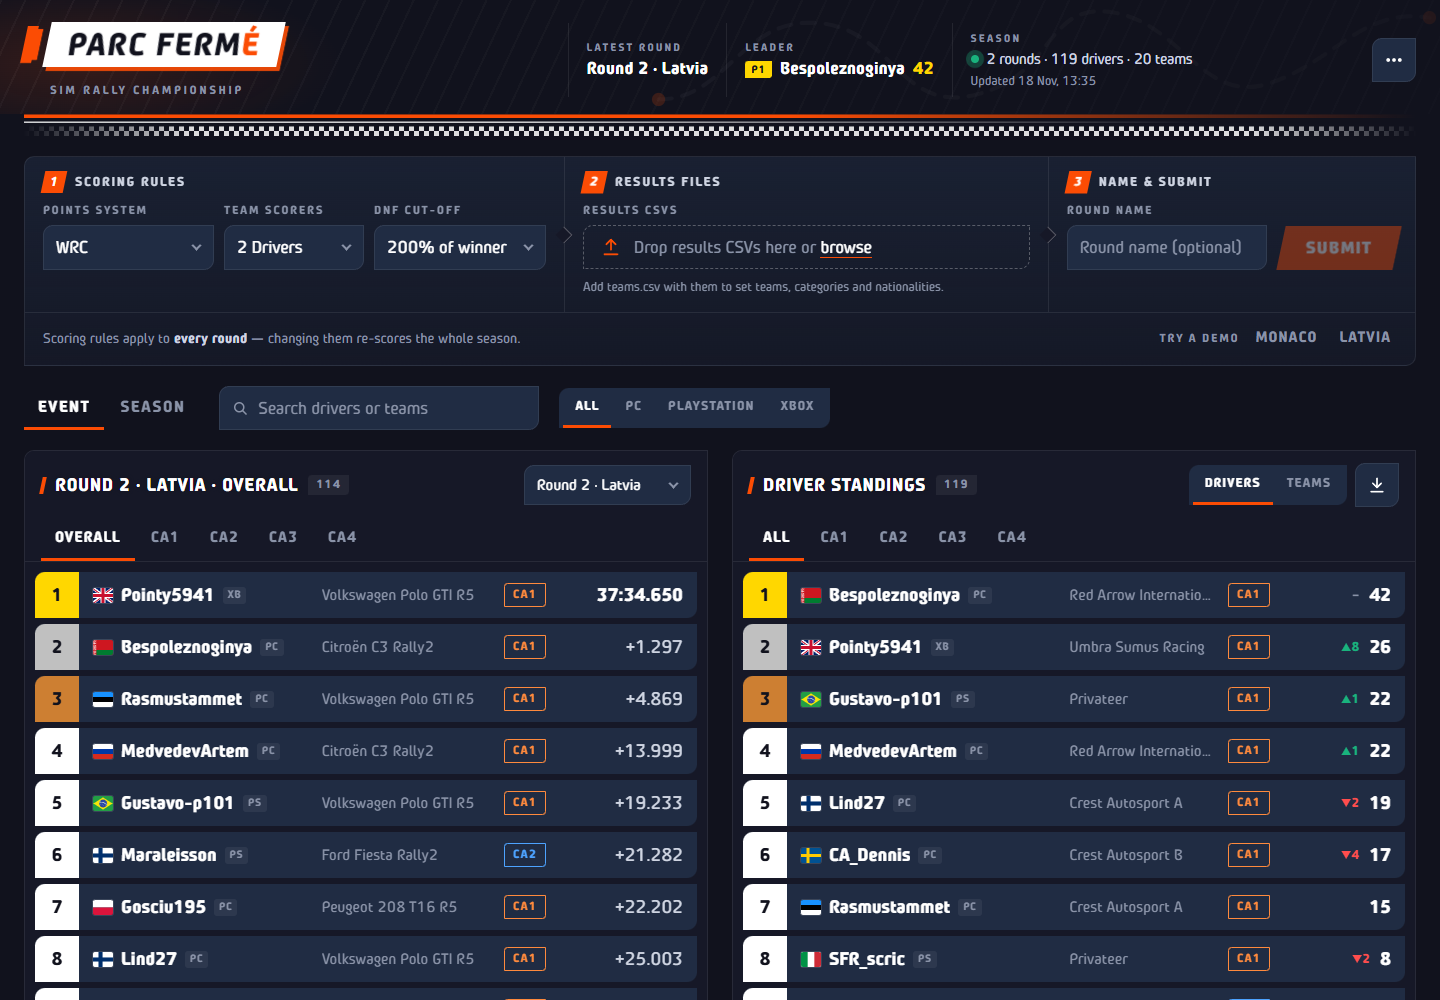
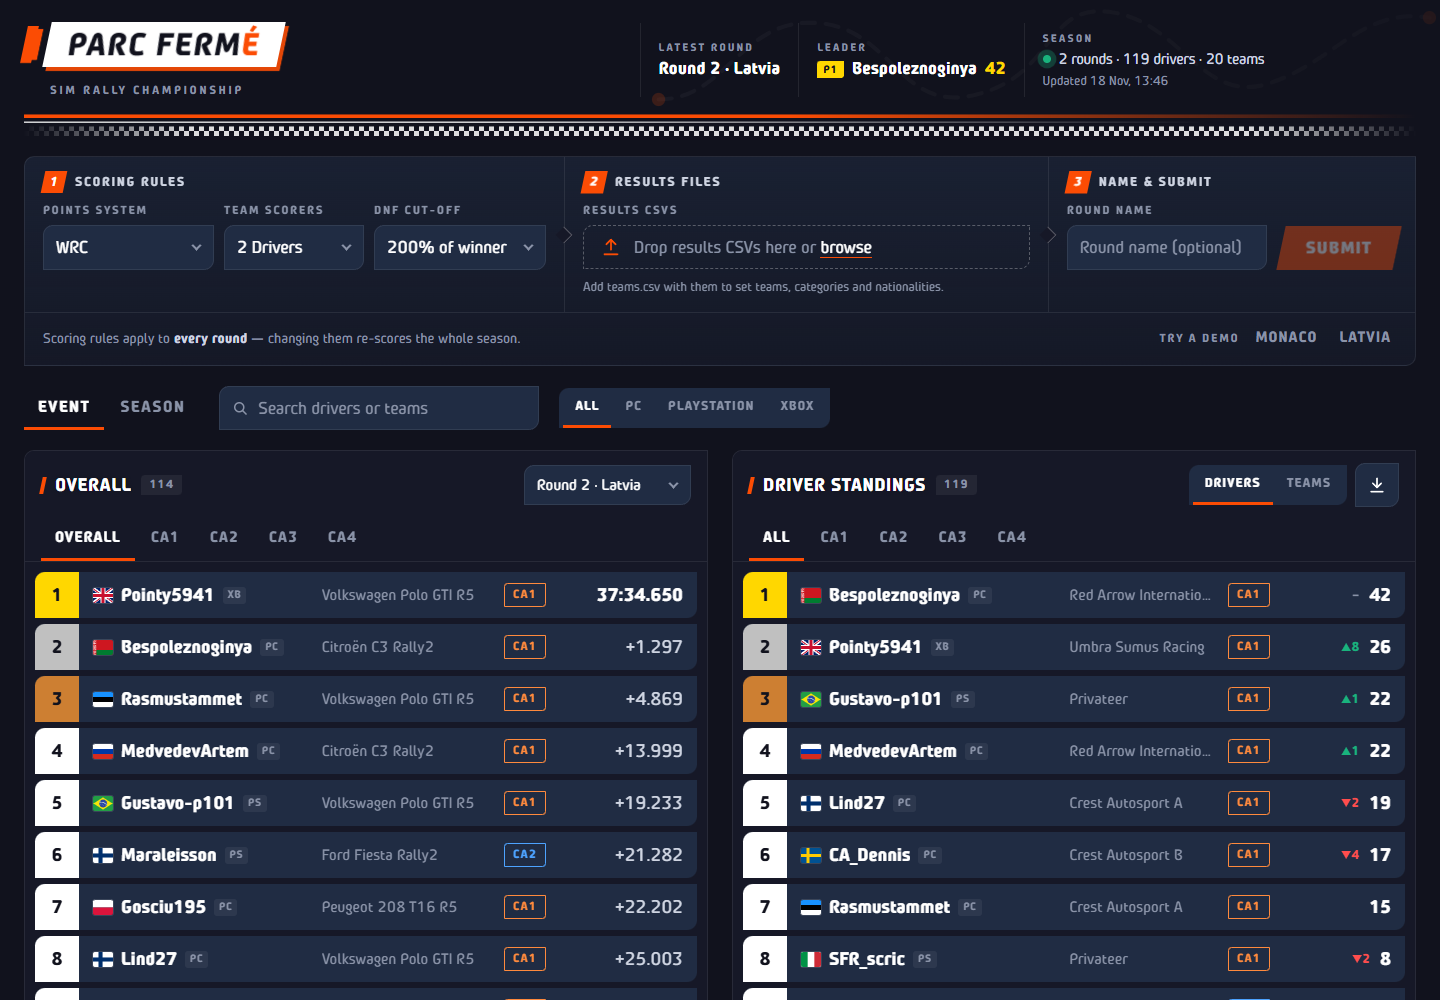
Keep the live dot pulsing, move data clearing to the Season panel, texture the whole page
- Live dot pulses continuously instead of three times
- Remove all rounds / Delete all data move from the header into a menu on
  the Season panel, next to the per-round remove buttons
- Speed lines and orange/blue glows now sit behind the whole app; the
  header keeps only its stage outline
- Results title drops the round name when the round picker is shown

diff --git a/src/components/SeasonTable.jsx b/src/components/SeasonTable.jsx
@@ -1,8 +1,9 @@
 import { Fragment, useMemo, useState } from 'react';
 import { Badge, EmptyState, NameCell, Panel, selectableRow, useExpandedDriver } from './Leaderboard';
 import ExportMenu from './ExportMenu';
+import Menu from './Menu';
 import Tabs from './Tabs';
-import { CloseIcon } from './Icons';
+import { CloseIcon, DotsIcon } from './Icons';
 import { formatDateTime } from '../lib/format';
 import { isRealTeam, sortByPointsDesc } from '../lib/season';
 import { CATEGORIES } from '../lib/pointsSystems';
@@ -14,7 +15,17 @@ const TABS = [
 ];
 
 // Season grid: one row per driver (or team), one column per round, plus total.
-export default function SeasonTable({ season, teamsByUser, platformOf, filter, renderDetail, onRemoveRound, notify }) {
+export default function SeasonTable({
+	season,
+	teamsByUser,
+	platformOf,
+	filter,
+	renderDetail,
+	onRemoveRound,
+	onRemoveAllRounds,
+	onDeleteAll,
+	notify,
+}) {
 	const [tab, setTab] = useState('ALL');
 	const [expanded, toggle, close] = useExpandedDriver();
 	const isTeams = tab === 'TEAMS';
@@ -59,16 +70,47 @@ export default function SeasonTable({ season, teamsByUser, platformOf, filter, r
 			className="season-panel"
 			tabs={<Tabs items={TABS} value={tab} onChange={setTab} label="Season table view" />}
 			actions={
-				rows.length > 0 && (
-					<ExportMenu
-						title={title}
-						notify={notify}
-						getCsv={() => [
-							['Pos', label, ...rounds.map((r) => r.name), 'Total'],
-							...visible.map((r) => [r.pos, r.name, ...rounds.map((_, i) => cellText(cell(i, r.name))), r.total]),
-						]}
-					/>
-				)
+				<>
+					{rows.length > 0 && (
+						<ExportMenu
+							title={title}
+							notify={notify}
+							getCsv={() => [
+								['Pos', label, ...rounds.map((r) => r.name), 'Total'],
+								...visible.map((r) => [r.pos, r.name, ...rounds.map((_, i) => cellText(cell(i, r.name))), r.total]),
+							]}
+						/>
+					)}
+					{/* Clearing data lives with the rounds it clears */}
+					<Menu label="Season data" icon={<DotsIcon />}>
+						{(closeMenu) => (
+							<div className="menu-section">
+								<span className="field-label">Season data</span>
+								<p className="menu-note">Remove a single round with the ✕ next to its name in the table.</p>
+								<button
+									type="button"
+									className="btn btn-danger-outline"
+									onClick={() => {
+										closeMenu();
+										onRemoveAllRounds();
+									}}
+								>
+									<span>Remove all rounds</span>
+								</button>
+								<button
+									type="button"
+									className="btn btn-danger-outline"
+									onClick={() => {
+										closeMenu();
+										onDeleteAll();
+									}}
+								>
+									<span>Delete all data</span>
+								</button>
+							</div>
+						)}
+					</Menu>
+				</>
 			}
 		>
 			{rounds.length === 0 ? (

diff --git a/src/styles.css b/src/styles.css
@@ -80,6 +80,20 @@ body {
 	overflow-x: hidden;
 }
 
+/* Texture behind the whole app: faint speed lines, an orange glow top-left
+   and a cool one bottom-right. Fixed, so it stays put while panels scroll. */
+body::before {
+	content: '';
+	position: fixed;
+	inset: 0;
+	z-index: -1;
+	pointer-events: none;
+	background:
+		radial-gradient(1100px 620px at -5% -10%, rgba(251, 76, 4, 0.12), transparent 60%),
+		radial-gradient(900px 600px at 105% 110%, rgba(59, 142, 255, 0.07), transparent 60%),
+		repeating-linear-gradient(115deg, rgba(255, 255, 255, 0.03) 0 2px, transparent 2px 24px);
+}
+
 h1,
 h2 {
 	margin: 0;
@@ -127,23 +141,20 @@ select {
 	position: relative;
 	isolation: isolate;
 	display: grid;
-	grid-template-columns: auto minmax(0, 1fr) auto;
-	grid-template-areas: 'brand timing menu';
+	grid-template-columns: auto minmax(0, 1fr);
+	grid-template-areas: 'brand timing';
 	align-items: center;
 	gap: 16px 28px;
 	padding: 22px 0 16px;
 }
 
-/* Background: soft orange glow behind the logo, speed lines, stage map */
+/* Background: faint rally stage outline (the page texture shows through) */
 .header-bg {
 	position: absolute;
 	inset: 0 -24px;
 	z-index: -1;
 	overflow: hidden;
 	pointer-events: none;
-	background:
-		radial-gradient(ellipse 360px 120px at 90px 55%, rgba(251, 76, 4, 0.16), transparent 70%),
-		repeating-linear-gradient(115deg, rgba(255, 255, 255, 0.035) 0 2px, transparent 2px 22px);
 	-webkit-mask-image: linear-gradient(90deg, #000 0%, rgba(0, 0, 0, 0.6) 40%, rgba(0, 0, 0, 0.25) 100%);
 	mask-image: linear-gradient(90deg, #000 0%, rgba(0, 0, 0, 0.6) 40%, rgba(0, 0, 0, 0.25) 100%);
 }
@@ -325,7 +336,7 @@ select {
 	inset: 0;
 	border-radius: 50%;
 	background: var(--up);
-	animation: live-pulse 1.2s ease-out 3;
+	animation: live-pulse 2s ease-out infinite;
 }
 
 .live-dot.is-idle {
@@ -334,10 +345,6 @@ select {
 
 .live-dot.is-idle::after {
 	display: none;
-}
-
-.header-menu {
-	grid-area: menu;
 }
 
 /* Race stripe under the header: orange + white bands over the checker */
@@ -510,10 +517,10 @@ select {
 /* Phones: wordmark + menu on top, one compact status line below */
 @media (max-width: 768px) {
 	.site-header {
-		grid-template-columns: minmax(0, 1fr) auto;
+		grid-template-columns: minmax(0, 1fr);
 		grid-template-areas:
-			'brand menu'
-			'timing timing';
+			'brand'
+			'timing';
 		gap: 12px 12px;
 		padding: 16px 0 12px;
 	}
@@ -754,6 +761,12 @@ select option {
 	display: flex;
 	flex-direction: column;
 	gap: 10px;
+}
+
+.menu-note {
+	margin: 0;
+	font-size: 0.8rem;
+	color: var(--muted);
 }
 
 .menu-section .btn {

diff --git a/src/components/Header.jsx b/src/components/Header.jsx
@@ -1,6 +1,4 @@
 import { useEffect, useRef, useState } from 'react';
-import Menu from './Menu';
-import { DotsIcon } from './Icons';
 import { formatDateTime } from '../lib/format';
 
 // Wordmark: slanted white "door plate" with the É picked out in orange.
@@ -40,9 +38,9 @@ function TimingBlock({ label, children, className = '' }) {
 	);
 }
 
-// Header as a timing screen: name + tagline, the season's live state, and
-// the menu. A slim copy pins to the top of the page once you scroll past it.
-export default function Header({ status, onRemoveAllRounds, onDeleteAll }) {
+// Header as a timing screen: name + tagline and the season's live state.
+// A slim copy pins to the top of the page once you scroll past it.
+export default function Header({ status }) {
 	const headerRef = useRef(null);
 	const [pinned, setPinned] = useState(false);
 
@@ -98,33 +96,6 @@ export default function Header({ status, onRemoveAllRounds, onDeleteAll }) {
 					)}
 				</div>
 
-				<Menu label="More actions" icon={<DotsIcon />} className="header-menu">
-					{(close) => (
-						<div className="menu-section">
-							<span className="field-label">Danger zone</span>
-							<button
-								type="button"
-								className="btn btn-danger-outline"
-								onClick={() => {
-									close();
-									onRemoveAllRounds();
-								}}
-							>
-								<span>Remove all rounds</span>
-							</button>
-							<button
-								type="button"
-								className="btn btn-danger-outline"
-								onClick={() => {
-									close();
-									onDeleteAll();
-								}}
-							>
-								<span>Delete all data</span>
-							</button>
-						</div>
-					)}
-				</Menu>
 			</header>
 
 			<div className="race-stripe" aria-hidden="true">

diff --git a/src/App.jsx b/src/App.jsx
@@ -301,7 +301,9 @@ export default function App() {
 		filter,
 		renderDetail,
 	};
-	const roundTitle = (suffix) => (eventRound ? `${eventRound.name} · ${suffix}` : suffix);
+	// With 2+ rounds the round picker next to the title already names the round.
+	const roundTitle = (suffix) =>
+		eventRound && season.rounds.length < 2 ? `${eventRound.name} · ${suffix}` : suffix;
 
 	const standings = (
 		<Standings
@@ -323,13 +325,15 @@ export default function App() {
 			filter={filter}
 			renderDetail={renderDetail}
 			onRemoveRound={handleRemoveRound}
+			onRemoveAllRounds={handleRemoveAllRounds}
+			onDeleteAll={handleDeleteAll}
 			notify={notify}
 		/>
 	);
 
 	return (
 		<div className="app">
-			<Header status={headerStatus} onRemoveAllRounds={handleRemoveAllRounds} onDeleteAll={handleDeleteAll} />
+			<Header status={headerStatus} />
 
 			{isMobile ? (
 				<>
